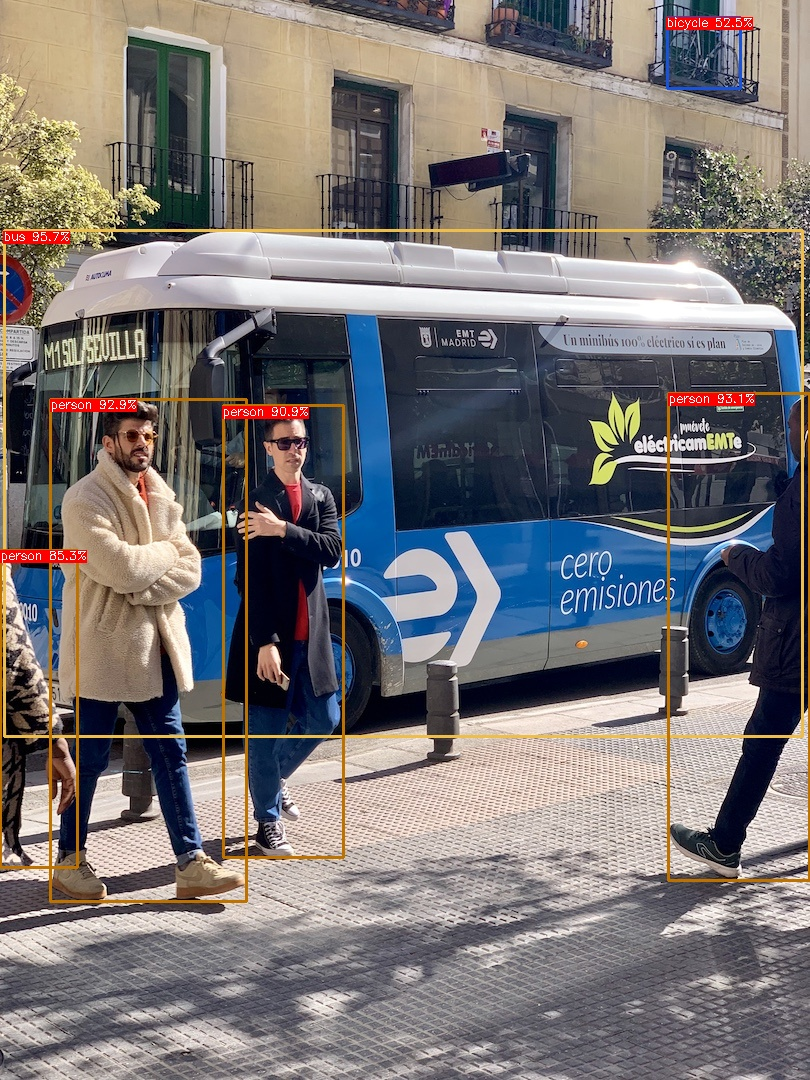
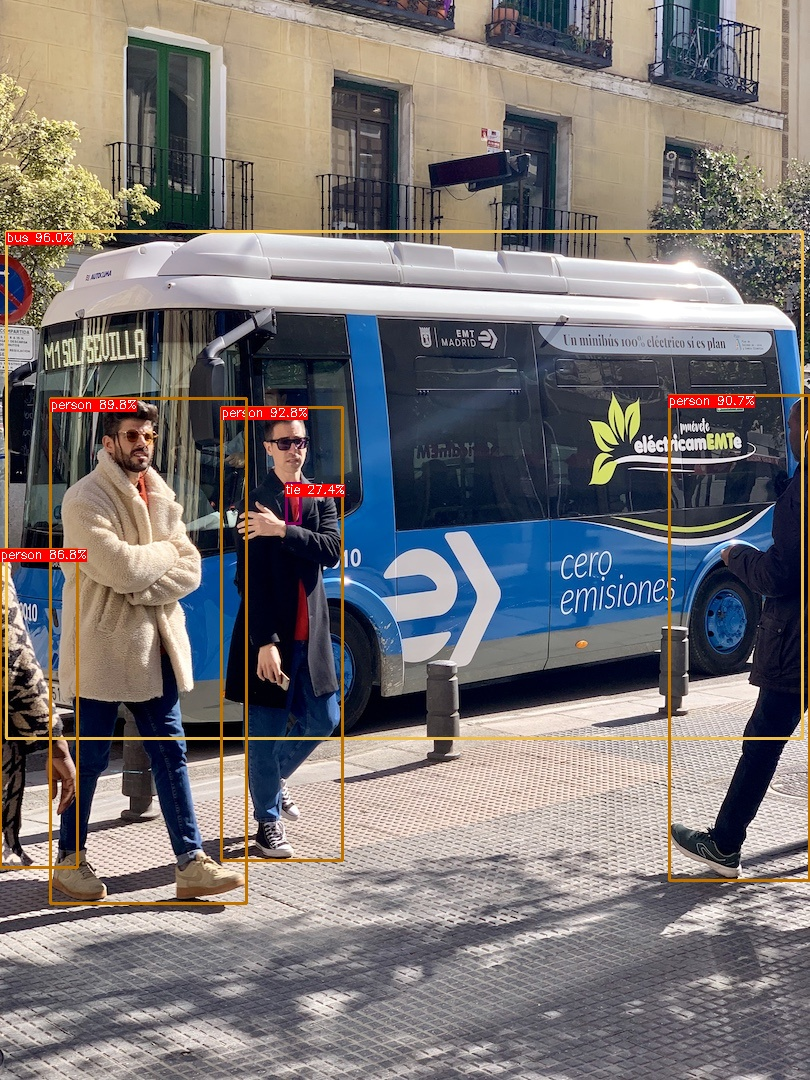
Dynamic batch yolov9 added

Changed region(s): [[0.0, 0.2139, 1.0, 0.8556], [0.8025, 0.0, 0.9259, 0.0917], [0.1235, 0.3667, 0.1543, 0.3972]]

diff --git a/examples/yolov9/main.cpp b/examples/yolov9/main.cpp
@@ -57,21 +57,21 @@ const std::vector<std::string> CLASS_NAMES = {
     };
     
 
-void postprocess(std::vector<Object>& objs, float* host_ptrs[4], PreParam pparam)
+void postprocess(std::vector<Object>& objs, float* host_ptrs[4], PreParam pparam, int index)
 {
 	objs.clear();
-	int* num_dets = reinterpret_cast<int*>(host_ptrs[0]);
-	auto* boxes = reinterpret_cast<float*>(host_ptrs[1]);
-	auto* scores = reinterpret_cast<float*>(host_ptrs[2]);
-	int* labels = reinterpret_cast<int*>(host_ptrs[3]);
+    auto* num_dets = reinterpret_cast<int*>(host_ptrs[0]);
+    auto* boxes =    reinterpret_cast<float*>(host_ptrs[1]);
+    auto* scores =   reinterpret_cast<float*>(host_ptrs[2]);
+    auto* labels =   reinterpret_cast<int*>(host_ptrs[3]);
 	auto& dw = pparam.dw;
 	auto& dh = pparam.dh;
 	auto& width = pparam.width;
 	auto& height = pparam.height;
 	auto& ratio = pparam.ratio;
-	for (int i = 0; i < num_dets[0]; i++)
+    for (int i = 0; i < num_dets[index]; i++)
 	{
-		float* ptr = boxes + i * 4;
+		float* ptr = boxes + i * 4 + index * 400;
 
 		float x0 = *ptr++ - dw;
 		float y0 = *ptr++ - dh;
@@ -87,8 +87,8 @@ void postprocess(std::vector<Object>& objs, float* host_ptrs[4], PreParam pparam
 		obj.rect.y = y0;
 		obj.rect.width = x1 - x0;
 		obj.rect.height = y1 - y0;
-		obj.prob = *(scores + i);
-		obj.label = *(labels + i);
+		obj.prob = *(scores + i + index * 100);
+		obj.label = *(labels + i + index * 100);
 		objs.push_back(obj);
 	}
 }
@@ -227,7 +227,7 @@ int main(int argc, char *argv[]){
 
     float* crop_hostbuffer_debug = nullptr;
 
-    int BatchSize = 1;
+    int BatchSize = 2;
 
     // prepare host cache
     hostbuffers = (uint8_t**)malloc(sizeof(uint8_t*) * BatchSize);
@@ -246,20 +246,26 @@ int main(int argc, char *argv[]){
     int InputW = 640;
     //Load the backbone
     Logger g_logger;
-    int NCHW_[4] = {BatchSize,3,InputH,InputW};
-    int* NCHW= &NCHW_[0];
+    int min_NCHW_[4] = {BatchSize,3,InputH,InputW};
+    int opt_NCHW_[4] = {BatchSize,3,InputH,InputW};
+    int max_NCHW_[4] = {BatchSize,3,InputH,InputW};
+    
+    int* min_NCHW= &min_NCHW_[0];
+    int* opt_NCHW= &opt_NCHW_[0];
+    int* max_NCHW= &max_NCHW_[0];
+
     char* format = "NCHW";
     vector<const char*> INPUT_BLOB_NAME = {"images"};
     vector<const char*> OUTPUT_BLOB_NAME = {"num_dets", "det_boxes", "det_scores", "det_classes"};
 
-    SrcNetwork detector_v9(g_logger, format, NCHW, INPUT_BLOB_NAME, OUTPUT_BLOB_NAME);
+    SrcNetwork detector_v9(g_logger, format, min_NCHW, opt_NCHW, max_NCHW, INPUT_BLOB_NAME, OUTPUT_BLOB_NAME);
 
     std::string onnx_path = argv[1];
 
     // if trt_path doesn't exist then build the engine
     std::string onnx_path_str(onnx_path);
     SPDLOG_LOGGER_INFO(logger,"Onnx Path: {}", onnx_path_str);
-    std::string trt_path = onnx_path_str.substr(0, onnx_path_str.find_last_of('.')) + ".trt";
+    std::string trt_path = onnx_path_str.substr(0, onnx_path_str.find_last_of('.')) + "_batchsize_" +std::to_string(BatchSize)+".trt";
     SPDLOG_LOGGER_INFO(logger,"TRT Path: {}", trt_path);
 
     std::ifstream trt_file(trt_path, std::ios::binary);
@@ -272,16 +278,16 @@ int main(int argc, char *argv[]){
     }
 
     float* backbone_buffers[detector_v9.num_inputs + detector_v9.num_outputs];
-    float* output_buffers[detector_v9.num_outputs];
+    float* output_buffers[BatchSize * detector_v9.num_outputs];
 
-    CUDA_CHECK(cudaMalloc((void**)&backbone_buffers[0], NCHW_[0] * NCHW_[1] * NCHW_[2] * NCHW_[3]  * sizeof(float)));    
+    CUDA_CHECK(cudaMalloc((void**)&backbone_buffers[0], max_NCHW_[0] * max_NCHW_[1] * max_NCHW_[2] * max_NCHW_[3]  * sizeof(float)));    
     int i = 0;
     for (auto& bindings : detector_v9.output_bindings){
         
         size_t size = bindings.size * bindings.dsize;
 
-        CUDA_CHECK(cudaMalloc((void**)&backbone_buffers[1 + i], size  *  sizeof(float)));
-        CUDA_CHECK(cudaMallocHost((void**)&output_buffers[i], size  *  sizeof(float)));
+        CUDA_CHECK(cudaMalloc((void**)&backbone_buffers[1 + i], max_NCHW_[0] * size  *  sizeof(float)));
+        CUDA_CHECK(cudaMallocHost((void**)&output_buffers[i], max_NCHW_[0] * size  *  sizeof(float)));
 
         i += 1;
     }
@@ -308,6 +314,7 @@ int main(int argc, char *argv[]){
         SPDLOG_LOGGER_INFO(logger,"Current Batch Size: {}", currentBatchSize); 
         
         //PREPROCESS
+        float *buffer_idx = (float *)backbone_buffers[0];
         std::vector<PreParam> pparam_per_batch;
         for(int index=0; index < currentBatchSize; index++){
 
@@ -363,7 +370,7 @@ int main(int argc, char *argv[]){
             
             crop_resize_kernel_img(
                 devicebuffers[index], cols, rows,        //src
-                backbone_buffers[index], InputW, InputH, //dst
+                buffer_idx, InputW, InputH, //dst
                 context_crop,      //  crop,
                 &Imean_values[0],  //  Imean_values,
                 &Iscale_values[0], //  Iscale_values,
@@ -373,12 +380,12 @@ int main(int argc, char *argv[]){
                 1,  //  is_norm: Divide by 255 
                 stream
             );
-                    
+            buffer_idx += InputH * InputW * 3 ;        
         }
         
         SPDLOG_LOGGER_INFO(logger, "Calling inference");
         //INFERENCE
-        detector_context->enqueue(BatchSize, (void**)backbone_buffers, stream, nullptr);
+        detector_context->enqueue(currentBatchSize, (void**)backbone_buffers, stream, nullptr);
         SPDLOG_LOGGER_INFO(logger, "Calling inference done");
         
         //COPY RESULTS
@@ -401,7 +408,7 @@ int main(int argc, char *argv[]){
         
         for(int index=0; index < currentBatchSize; index++){
             std::vector<Object> objs;
-            postprocess(objs, output_buffers, pparam_per_batch[index]);
+            postprocess(objs, output_buffers, pparam_per_batch[index], index);
             
             cv::Mat res;
             draw_objects(img_batch[index], res, objs, CLASS_NAMES, COLORS);

diff --git a/src/src_net.cpp b/src/src_net.cpp
@@ -1,12 +1,23 @@
 #include "src_net.h"
 
-SrcNetwork::SrcNetwork(Logger g_logger, char* format, int* NCHW, vector<const char*> INPUT_BLOB_NAME, vector<const char*> OUTPUT_BLOB_NAME)
+SrcNetwork::SrcNetwork(Logger g_logger, char* format, int* min_NCHW, int* opt_NCHW, int* max_NCHW, vector<const char*> INPUT_BLOB_NAME, vector<const char*> OUTPUT_BLOB_NAME)
 : g_logger_(g_logger), format_(format)
 { 
-  batchsize_ = NCHW[0];
-  input_channel_ = NCHW[1];
-  model_height_ = NCHW[2];
-  model_width_ = NCHW[3];
+  min_batchsize_ =     min_NCHW[0];
+  min_input_channel_ = min_NCHW[1];
+  min_model_height_  = min_NCHW[2];
+  min_model_width_   = min_NCHW[3];
+
+  max_batchsize_ =     max_NCHW[0];
+  max_input_channel_ = max_NCHW[1];
+  max_model_height_  = max_NCHW[2];
+  max_model_width_   = max_NCHW[3];
+  
+  opt_batchsize_ =     opt_NCHW[0];
+  opt_input_channel_ = opt_NCHW[1];
+  opt_model_height_  = opt_NCHW[2];
+  opt_model_width_   = opt_NCHW[3];
+  
   m_runtime_ = nvinfer1::createInferRuntime(g_logger_);
   m_engine_ = nullptr;
   INPUT_BLOB_NAME_ = INPUT_BLOB_NAME;
@@ -34,7 +45,7 @@ void SrcNetwork::buildEngine(const char *onnx_filename, char *engine_filename){
     return;
   }
   IBuilder* builder = createInferBuilder(g_logger_);
-  builder->setMaxBatchSize(batchsize_); 
+  builder->setMaxBatchSize(max_batchsize_); 
   
   uint32_t flag = 1U <<static_cast<uint32_t>
     (NetworkDefinitionCreationFlag::kEXPLICIT_BATCH); 
@@ -49,12 +60,12 @@ void SrcNetwork::buildEngine(const char *onnx_filename, char *engine_filename){
 
   IOptimizationProfile* profile = builder->createOptimizationProfile();
 
-  profile->setDimensions(INPUT_BLOB_NAME_[0], OptProfileSelector::kMIN, Dims4(batchsize_, input_channel_, model_height_, model_width_));
-  profile->setDimensions(INPUT_BLOB_NAME_[0], OptProfileSelector::kOPT, Dims4(batchsize_, input_channel_, model_height_, model_width_));
-  profile->setDimensions(INPUT_BLOB_NAME_[0], OptProfileSelector::kMAX, Dims4(batchsize_, input_channel_, model_height_, model_width_));
+  profile->setDimensions(INPUT_BLOB_NAME_[0], OptProfileSelector::kMIN, Dims4(min_batchsize_, min_input_channel_, min_model_height_, min_model_width_));
+  profile->setDimensions(INPUT_BLOB_NAME_[0], OptProfileSelector::kOPT, Dims4(opt_batchsize_, opt_input_channel_, opt_model_height_, opt_model_width_));
+  profile->setDimensions(INPUT_BLOB_NAME_[0], OptProfileSelector::kMAX, Dims4(max_batchsize_, max_input_channel_, max_model_height_, max_model_width_));
 
   IBuilderConfig* config = builder->createBuilderConfig();
-  config->setMaxWorkspaceSize(1U << 24);
+  config->setMaxWorkspaceSize(1U << 30);
   config->addOptimizationProfile(profile);
   if(is_FP16_){
     config->setFlag(BuilderFlag::kFP16);
@@ -111,35 +122,35 @@ IExecutionContext* SrcNetwork::getEngineContext(char* engine_filename, cudaStrea
   
   for(int i = 0; i < num_bindings; ++i){
     Binding binding;
-	nvinfer1::Dims dims;
-	nvinfer1::DataType dtype = m_engine_->getBindingDataType(i);
-	std::string name = m_engine_->getBindingName(i);
-	binding.name = name;
-	binding.dsize = type_to_size(dtype);
+    nvinfer1::Dims dims;
+    nvinfer1::DataType dtype = m_engine_->getBindingDataType(i);
+    std::string name = m_engine_->getBindingName(i);
+    binding.name = name;
+    binding.dsize = type_to_size(dtype);
 
-	bool IsInput = m_engine_->bindingIsInput(i);
-	if (IsInput)
-	{
-		this->num_inputs += 1;
-		dims = m_engine_->getProfileDimensions(
-			i,
-			0,
-			nvinfer1::OptProfileSelector::kMAX);
-		binding.size = get_size_by_dims(dims);
-		binding.dims = dims;
-		this->input_bindings.push_back(binding);
-		// set max opt shape
-		m_context_->setBindingDimensions(i, dims);
+    bool IsInput = m_engine_->bindingIsInput(i);
+    if (IsInput)
+    {
+      this->num_inputs += 1;
+      dims = m_engine_->getProfileDimensions(i,
+                                            0,
+                                            nvinfer1::OptProfileSelector::kOPT
+      );
+      binding.size = get_size_by_dims(dims);
+      binding.dims = dims;
+      this->input_bindings.push_back(binding);
+      // set max opt shape
+      m_context_->setBindingDimensions(i, dims);
 
-	}
-	else
-	{
-		dims = m_context_->getBindingDimensions(i);
-		binding.size = get_size_by_dims(dims);
-		binding.dims = dims;
-		this->output_bindings.push_back(binding);
-		this->num_outputs += 1;
-	}
+    }
+    else
+    {
+      dims = m_context_->getBindingDimensions(i);
+      binding.size = get_size_by_dims(dims);
+      binding.dims = dims;
+      this->output_bindings.push_back(binding);
+      this->num_outputs += 1;
+    }
   }
   
   m_context_->setOptimizationProfileAsync(0, stream);

diff --git a/include/src_net.h b/include/src_net.h
@@ -44,7 +44,7 @@ private:
 class SrcNetwork {
 
 public:
-  SrcNetwork(Logger g_logger, char* format, int* NCHW, vector<const char*> INPUT_BLOB_NAME, vector<const char*> OUTPUT_BLOB_NAME);
+  SrcNetwork(Logger g_logger, char* format, int* min_NCHW, int* opt_NCHW, int* max_NCHW, vector<const char*> INPUT_BLOB_NAME, vector<const char*> OUTPUT_BLOB_NAME);
   ~SrcNetwork();
   void buildEngine(const char* onnx_filename, char* engine_filename);
   IExecutionContext *getEngineContext(char* engine_filename, cudaStream_t stream);
@@ -56,10 +56,21 @@ public:
 	std::vector<Binding> output_bindings;
 
 private:
-  int batchsize_{0};
-  int input_channel_{0};
-  int model_width_{0};
-  int model_height_{0};
+  int min_batchsize_{0};
+  int min_input_channel_{0};
+  int min_model_width_{0};
+  int min_model_height_{0};
+  
+  int max_batchsize_{0};
+  int max_input_channel_{0};
+  int max_model_width_{0};
+  int max_model_height_{0};
+  
+  int opt_batchsize_{0};
+  int opt_input_channel_{0};
+  int opt_model_width_{0};
+  int opt_model_height_{0};
+  
   int is_FP16_{0};
 
   vector<const char*> INPUT_BLOB_NAME_;

diff --git a/README.md b/README.md
@@ -1,5 +1,7 @@
 # TENSORRT CPP FOR ONNX 
 
+Tensorrt codebase in c++ to inference for all major neural arch using onnx and dynamic batching
+
 ## Nvidia Driver
 
 ```bash
@@ -32,7 +34,11 @@ commit 380284cb66817e9ffa30a80cad4c1b110897b2fb
 - Clone the yolov9
 ```bash
 
+git clone https://github.com/WongKinYiu/yolov9
+
 python3 export.py --weights <model_version>.pt --include onnx_end2end
+
+git clone https://github.com/PrinceP/tensorrt-cpp-for-onnx
 
 // Move <model_version>-end2end.onnx file to 'examples/yolov9'
 cp <model_version>-end2end.onnx /app/examples/yolov9
@@ -47,7 +53,7 @@ make -j4
 // Check the results folder
 ```
 
-Using YOLOv9-E
+Using YOLOv9-C
 
 <div style="display: flex; justify-content: space-between;
 padding: 10px">
@@ -58,5 +64,16 @@ padding: 10px">
     <img src="./results/v9_test.jpeg" width="100%"/>
 </div>
 
-- Batchsize = 1, Model size = 640x640 [Dynamic batching is supported]
+- Batchsize = 2, Model size = 640x640 [Dynamic batching is supported] This can be updated in the codebase.
+
+- If size issue happens while building. Increase the workspaceSize
+
+```bash
+    Internal error: plugin node /end2end/EfficientNMS_TRT requires XXX bytes of scratch space, but only XXX is available. Try increasing the workspace size with IBuilderConfig::setMemoryPoolLimit().
+```
+```cpp
+    config->setMaxWorkspaceSize(1U << 26) 
+    //The current memory is 2^26 bytes
+```
+
 -----------
